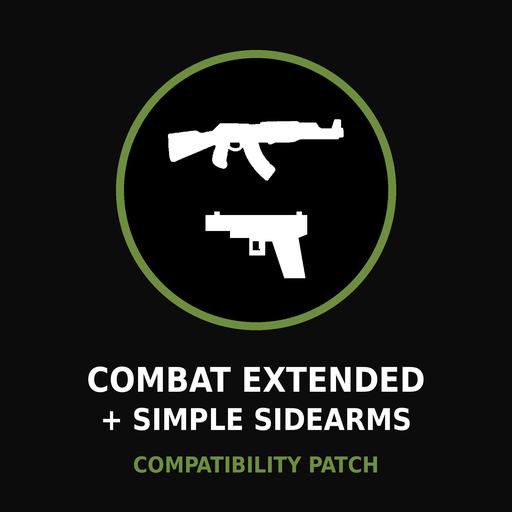
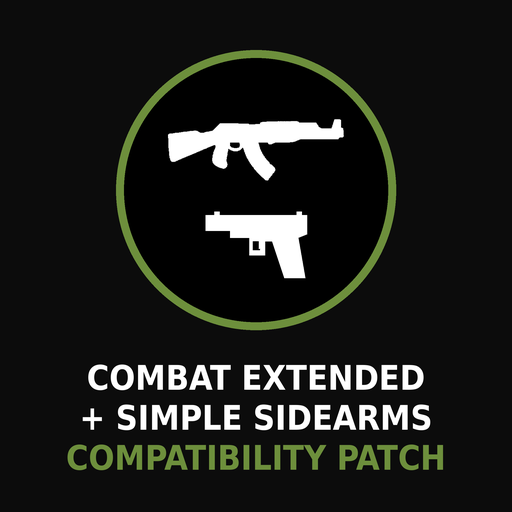
assets: unify suite preview line sizes; fix stale Loadouts distribution path
Claude-Session: https://claude.ai/code/session_01P8KGqMWXs1NiRZudGV5mNa

diff --git a/Media/badge_gen.py b/Media/badge_gen.py
@@ -162,16 +162,16 @@ def render_preview(path, subtitle, accent, rifle):
     dd = ImageDraw.Draw(img)
     draw_pistol(dd, (256 - 54) * P, 208 * P, 1.75 * P, flip=True)
 
-    f1 = ImageFont.truetype(FONT, 34 * P)
-    f2 = ImageFont.truetype(FONT, 30 * P)
-    f3 = ImageFont.truetype(FONT, 22 * P)
-    for text, font, y, color in [
-        ("COMBAT EXTENDED", f1, 360 * P, WHITE),
-        ("+ SIMPLE SIDEARMS", f2, 402 * P, WHITE),
-        (subtitle, f3, 452 * P, accent),
-    ]:
-        w = dd.textlength(text, font=font)
-        dd.text(((W - w) / 2, y), text, font=font, fill=color)
+    f = ImageFont.truetype(FONT, 34 * P)
+    plh = sum(f.getmetrics())
+    ytop = 358 * P
+    for i, (text, color) in enumerate([
+        ("COMBAT EXTENDED", WHITE),
+        ("+ SIMPLE SIDEARMS", WHITE),
+        (subtitle, accent),
+    ]):
+        w = dd.textlength(text, font=f)
+        dd.text(((W - w) / 2, ytop + i * plh), text, font=f, fill=color)
 
     img.resize((512, 512), Image.LANCZOS).save(path)
     print("wrote", path)
@@ -189,7 +189,7 @@ if __name__ == "__main__":
     # cross-link with relative paths (personal tooling — skipped when absent).
     import shutil
     badge_set = ["Badge_Suite.png", "Badge_Patch.png", "Badge_Loadouts.png", "Badge_Tactics.png"]
-    for sibling in ("~/Projects/CESidearmsSupply",
+    for sibling in ("~/Projects/CombatExtended-SimpleSidearms-Compatibility-Loadouts",
                     "~/Projects/CombatExtended-SimpleSidearms-Compatibility-Tactics"):
         media = os.path.expanduser(sibling + "/Media")
         if os.path.isdir(media):
@@ -197,7 +197,7 @@ if __name__ == "__main__":
                 shutil.copy(os.path.join(HERE, name), os.path.join(media, name))
             print("distributed badges ->", media)
 
-    loadouts_about = os.path.expanduser("~/Projects/CESidearmsSupply/About")
+    loadouts_about = os.path.expanduser("~/Projects/CombatExtended-SimpleSidearms-Compatibility-Loadouts/About")
     if os.path.isdir(loadouts_about):
         render_preview(os.path.join(loadouts_about, "Preview.png"),
                        "LOADOUTS MODULE", (217, 154, 43, 255), rifle)
